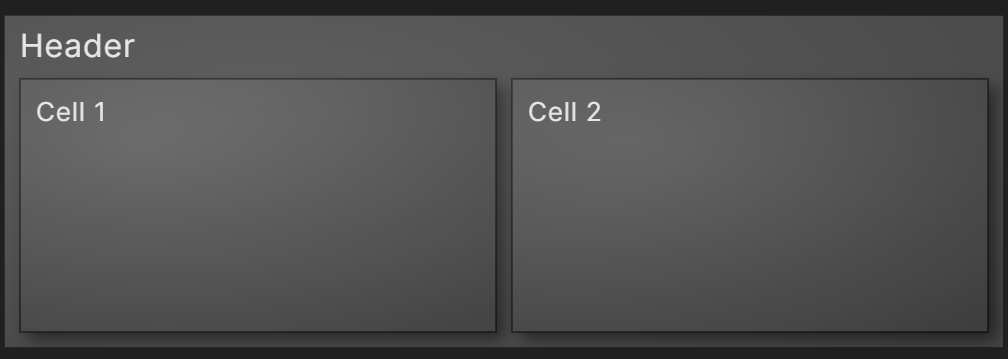
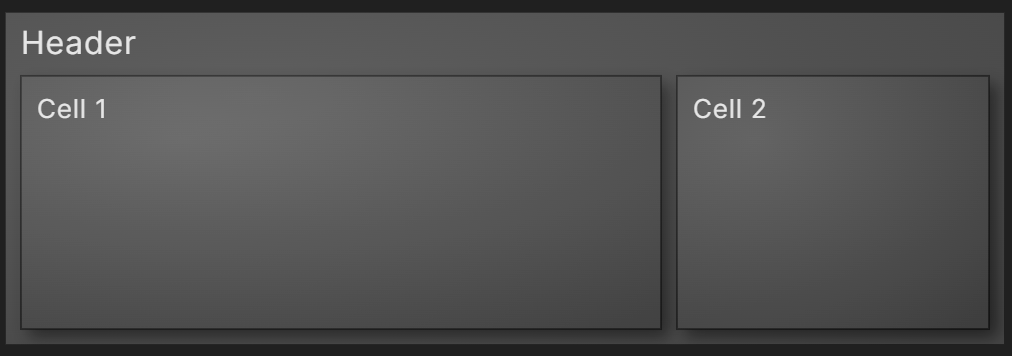
Updated simple example

diff --git a/examples/Settings.md b/examples/Settings.md
@@ -2,83 +2,83 @@
 
 ```json
 {
-"type": "enhancedtreemap",
-"name": "Enhanced Treemap Settings", "fill": { "s": 0, "l": 0.2 }, "text_size": 16, "halign": "center",
-"settings": [
-	{ "aspect_ratio": "1:1" },
-	{ "fixed_width": true },
-	{ "width": 800 },
-	{ "sort_by_value": false },
-	{ "cell_padding": 6 },
-	{ "text_padding": 6 },
-	{ "h_text_padding": 8 },
-	{ "text_size": 11 },
-	{ "h_text_size": 11 },
-	{ "text_color": { "l": 0.7 } },
-	{ "shading": false },
-	{ "h_shading": false },
-	{ "shadow": false },
-	{ "h_shadow": true },
-	{ "h_shadow_size": 3 },
-	{ "border_color": { "a": 0 } },
-	{ "h_border_color": { "a": 0 } },
-	{ "h_fill": { "s": 0.2 } },
-	{ "fill": { "a": 0 } }
-],
-"children": [
-	{ "fill": { "a": 0 }, "border_color": { "a": 0 },
-		"children": [
-			{ "name": "Size & Shape", "text_size": 13, "fill": { "s": 0 }, "children": [ 
-				{ "name": "aspect_ratio",   "fill": { "h": 60 }, "children": [ { "name": "\"1:1\"" } ] },
-				{ "name": "fixed_width",    "fill": { "h": 60 }, "children": [ { "name": "true" } ] },
-				{ "name": "width",          "fill": { "h": 60 }, "children": [ { "name": "800" } ] },
-				{ "name": "show_headers",   "fill": { "h": 60 }, "children": [ { "name": "true" } ] },
-				{ "name": "show_values",    "fill": { "h": 60 }, "children": [ { "name": "false" } ] },
-				{ "name": "sort_by_value",  "fill": { "h": 60 }, "children": [ { "name": "true" } ] },
-				{ "name": "h_text_size",    "fill": { "h": 120 }, "children": [ { "name": "16" } ] },
-				{ "name": "text_size",      "fill": { "h": 180 }, "children": [ { "name": "13" } ] }
-			] },
-			{ "name": "Padding", "text_size": 13, "fill": { "s": 0 }, "children": [ 
-				{ "name": "cell_padding",   "fill": { "h": 60 }, "children": [ { "name": "8" } ] },
-				{ "name": "h_text_padding", "fill": { "h": 60 }, "children": [ { "name": "8" } ] },
-				{ "name": "text_padding",   "fill": { "h": 180 }, "children": [ { "name": "8" } ] }
-			] },
-			{ "name": "Shading & Shadows", "text_size": 13, "fill": { "s": 0 }, "children": [ 
-				{ "name": "h_shadow_size",  "fill": { "h": 60 }, "children": [ { "name": "4" } ] },
-				{ "name": "shadow_size",    "fill": { "h": 60 }, "children": [ { "name": "4" } ] },
-				{ "name": "h_shading",      "fill": { "h": 120 }, "children": [ { "name": "true" } ] },
-				{ "name": "shading",        "fill": { "h": 180 }, "children": [ { "name": "true" } ] },
-				{ "name": "h_shadow",       "fill": { "h": 120 }, "children": [ { "name": "true" } ] },
-				{ "name": "shadow",         "fill": { "h": 180 }, "children": [ { "name": "true" } ] }
-			] },
-			{ "name": "Color", "text_size": 13, "fill": { "s": 0 }, "children": [ 
-				{ "name": "h_border_color", "fill": { "h": 120 }, "children": [ { "name": "hue:0 saturation:0 lightness:0 alpha:0.5" } ] },
-				{ "name": "border_color",   "fill": { "h": 180 }, "children": [ { "name": "hue:0 saturation:0 lightness:0 alpha:0.5" } ] },
-				{ "name": "h_fill",         "fill": { "h": 120 }, "children": [ { "name": "hue:0 saturation:0 lightness:0.3 alpha:1" } ] },
-				{ "name": "fill",           "fill": { "h": 180 }, "children": [ { "name": "hue:0 saturation:0 lightness:0.3 alpha:1" } ] },
-				{ "name": "h_text_color",   "fill": { "h": 120 }, "children": [ { "name": "hue:0 saturation:0 lightness:0.9 alpha:1" } ] },
-				{ "name": "text_color",     "fill": { "h": 180 }, "children": [ { "name": "hue:0 saturation:0 lightness:0.8 alpha:1" } ] }
-			] },
-			{ "name": "Alignment", "text_size": 13, "fill": { "s": 0 }, "children": [ 
-				{ "name": "h_halign",       "fill": { "h": 120 }, "children": [ { "name": "\"left\"" } ] },
-				{ "name": "halign",         "fill": { "h": 180 }, "children": [ { "name": "\"left\"" } ] },
-				{ "name": "valign",         "fill": { "h": 180 }, "children": [ { "name": "\"top\"" } ] }
-			] }
-		]
-	},
-	{ "fill": { "a": 0 }, "border_color": { "a": 0 },
-		"children": [
-			{ "name": "Defaults",      "text_size": 13, "fill": { "s": 0, "a": 1 }, "children": [ { "value": 2.25,
-				"name": "This treemap shows the defaults for all available settings for the Enhanced Treemap plugin. These defaults can be changed in the settings panel for the plugin." } ] },
-			{ "name": "Gold Shading",  "text_size": 13, "fill": { "h": 60, "s": 0.2, "a": 1 }, "children": [ { "value": 2.25,
-				"name": "These settings can be changed in the \"settings\" section of a treemap to override the plugin defaults. They cannot be changed within individual headers or cells." } ] },
-			{ "name": "Green Shading", "text_size": 13, "fill": { "h": 120 }, "children": [ { "value": 2.25,
-				"name": "These settings can be changed in the \"settings\" section of a treemap to override the plugin defaults. They can also be changed within individual headers to override both the plugin defaults and the treemap settings. Within individual headers remove the \"h_\" prefix." } ] },
-			{ "name": "Blue Shading",  "text_size": 13, "fill": { "h": 180 }, "children": [ { "value": 2.25,
-				"name": "These settings can be changed in the \"settings\" section of a treemap to override the plugin defaults. They can also be changed within individual cells to override both the plugin defaults and the treemap settings." } ] }
-		]
-	}
-]
+    "type": "enhancedtreemap",
+    "name": "Enhanced Treemap Settings", "fill": { "s": 0, "l": 0.2 }, "text_size": 16, "halign": "center",
+    "settings": [
+        { "aspect_ratio": "1:1" },
+        { "fixed_width": true },
+        { "width": 800 },
+        { "sort_by_value": false },
+        { "cell_padding": 6 },
+        { "text_padding": 6 },
+        { "h_text_padding": 8 },
+        { "text_size": 11 },
+        { "h_text_size": 11 },
+        { "text_color": { "l": 0.7 } },
+        { "shading": false },
+        { "h_shading": false },
+        { "shadow": false },
+        { "h_shadow": true },
+        { "h_shadow_size": 3 },
+        { "border_color": { "a": 0 } },
+        { "h_border_color": { "a": 0 } },
+        { "h_fill": { "s": 0.2 } },
+        { "fill": { "a": 0 } }
+    ],
+    "children": [
+        { "fill": { "a": 0 }, "border_color": { "a": 0 },
+            "children": [
+                { "name": "Size & Shape", "text_size": 13, "fill": { "s": 0 }, "children": [ 
+                    { "name": "aspect_ratio",   "fill": { "h": 60 }, "children": [ { "name": "\"1:1\"" } ] },
+                    { "name": "fixed_width",    "fill": { "h": 60 }, "children": [ { "name": "true" } ] },
+                    { "name": "width",          "fill": { "h": 60 }, "children": [ { "name": "800" } ] },
+                    { "name": "show_headers",   "fill": { "h": 60 }, "children": [ { "name": "true" } ] },
+                    { "name": "show_values",    "fill": { "h": 60 }, "children": [ { "name": "false" } ] },
+                    { "name": "sort_by_value",  "fill": { "h": 60 }, "children": [ { "name": "true" } ] },
+                    { "name": "h_text_size",    "fill": { "h": 120 }, "children": [ { "name": "16" } ] },
+                    { "name": "text_size",      "fill": { "h": 180 }, "children": [ { "name": "13" } ] }
+                ] },
+                { "name": "Padding", "text_size": 13, "fill": { "s": 0 }, "children": [ 
+                    { "name": "cell_padding",   "fill": { "h": 60 }, "children": [ { "name": "8" } ] },
+                    { "name": "h_text_padding", "fill": { "h": 60 }, "children": [ { "name": "8" } ] },
+                    { "name": "text_padding",   "fill": { "h": 180 }, "children": [ { "name": "8" } ] }
+                ] },
+                { "name": "Shading & Shadows", "text_size": 13, "fill": { "s": 0 }, "children": [ 
+                    { "name": "h_shadow_size",  "fill": { "h": 60 }, "children": [ { "name": "4" } ] },
+                    { "name": "shadow_size",    "fill": { "h": 60 }, "children": [ { "name": "4" } ] },
+                    { "name": "h_shading",      "fill": { "h": 120 }, "children": [ { "name": "true" } ] },
+                    { "name": "shading",        "fill": { "h": 180 }, "children": [ { "name": "true" } ] },
+                    { "name": "h_shadow",       "fill": { "h": 120 }, "children": [ { "name": "true" } ] },
+                    { "name": "shadow",         "fill": { "h": 180 }, "children": [ { "name": "true" } ] }
+                ] },
+                { "name": "Color", "text_size": 13, "fill": { "s": 0 }, "children": [ 
+                    { "name": "h_border_color", "fill": { "h": 120 }, "children": [ { "name": "hue:0 saturation:0 lightness:0 alpha:0.5" } ] },
+                    { "name": "border_color",   "fill": { "h": 180 }, "children": [ { "name": "hue:0 saturation:0 lightness:0 alpha:0.5" } ] },
+                    { "name": "h_fill",         "fill": { "h": 120 }, "children": [ { "name": "hue:0 saturation:0 lightness:0.3 alpha:1" } ] },
+                    { "name": "fill",           "fill": { "h": 180 }, "children": [ { "name": "hue:0 saturation:0 lightness:0.3 alpha:1" } ] },
+                    { "name": "h_text_color",   "fill": { "h": 120 }, "children": [ { "name": "hue:0 saturation:0 lightness:0.9 alpha:1" } ] },
+                    { "name": "text_color",     "fill": { "h": 180 }, "children": [ { "name": "hue:0 saturation:0 lightness:0.8 alpha:1" } ] }
+                ] },
+                { "name": "Alignment", "text_size": 13, "fill": { "s": 0 }, "children": [ 
+                    { "name": "h_halign",       "fill": { "h": 120 }, "children": [ { "name": "\"left\"" } ] },
+                    { "name": "halign",         "fill": { "h": 180 }, "children": [ { "name": "\"left\"" } ] },
+                    { "name": "valign",         "fill": { "h": 180 }, "children": [ { "name": "\"top\"" } ] }
+                ] }
+            ]
+        },
+        { "fill": { "a": 0 }, "border_color": { "a": 0 },
+            "children": [
+                { "name": "Defaults",      "text_size": 13, "fill": { "s": 0, "a": 1 }, "children": [ { "value": 2.25,
+                    "name": "This treemap shows the defaults for all available settings for the Enhanced Treemap plugin. These defaults can be changed in the settings panel for the plugin." } ] },
+                { "name": "Gold Shading",  "text_size": 13, "fill": { "h": 60, "s": 0.2, "a": 1 }, "children": [ { "value": 2.25,
+                    "name": "These settings can be changed in the \"settings\" section of a treemap to override the plugin defaults. They cannot be changed within individual headers or cells." } ] },
+                { "name": "Green Shading", "text_size": 13, "fill": { "h": 120 }, "children": [ { "value": 2.25,
+                    "name": "These settings can be changed in the \"settings\" section of a treemap to override the plugin defaults. They can also be changed within individual headers to override both the plugin defaults and the treemap settings. Within individual headers remove the \"h_\" prefix." } ] },
+                { "name": "Blue Shading",  "text_size": 13, "fill": { "h": 180 }, "children": [ { "value": 2.25,
+                    "name": "These settings can be changed in the \"settings\" section of a treemap to override the plugin defaults. They can also be changed within individual cells to override both the plugin defaults and the treemap settings." } ] }
+            ]
+        }
+    ]
 }
 ```
 

diff --git a/README.md b/README.md
@@ -17,8 +17,11 @@ The root element of the JSON code block must contain an element "type": "enhance
 {
     "type": "enhancedtreemap",
     "name": "Header",
+    "settings": [
+        { "aspect_ratio": "3:1" }
+    ],
     "children": [
-        { "name": "Cell 1" },
+        { "name": "Cell 1", "value": 2 },
         { "name": "Cell 2" }
     ]
 }
@@ -29,7 +32,7 @@ The root element of the JSON code block must contain an element "type": "enhance
 
 ## Settings
 
-The treemap below describes all of the available settings for the Enhanced Treemap plugin. Here is the [JSON code block](example/Settings.md) used to create it.
+The treemap below describes all of the available settings for the Enhanced Treemap plugin. Here is the [JSON code block](examples/Settings.md) used to create it.
 
 ![Settings Image](./examples/Settings.png)
 
